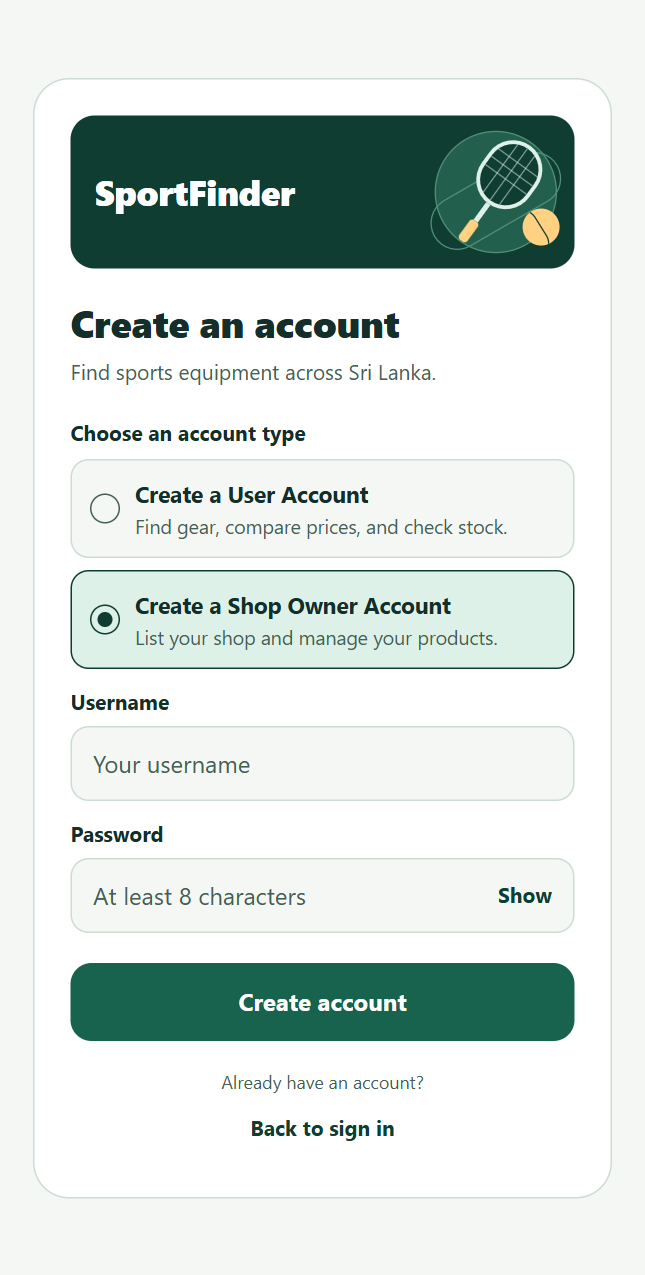
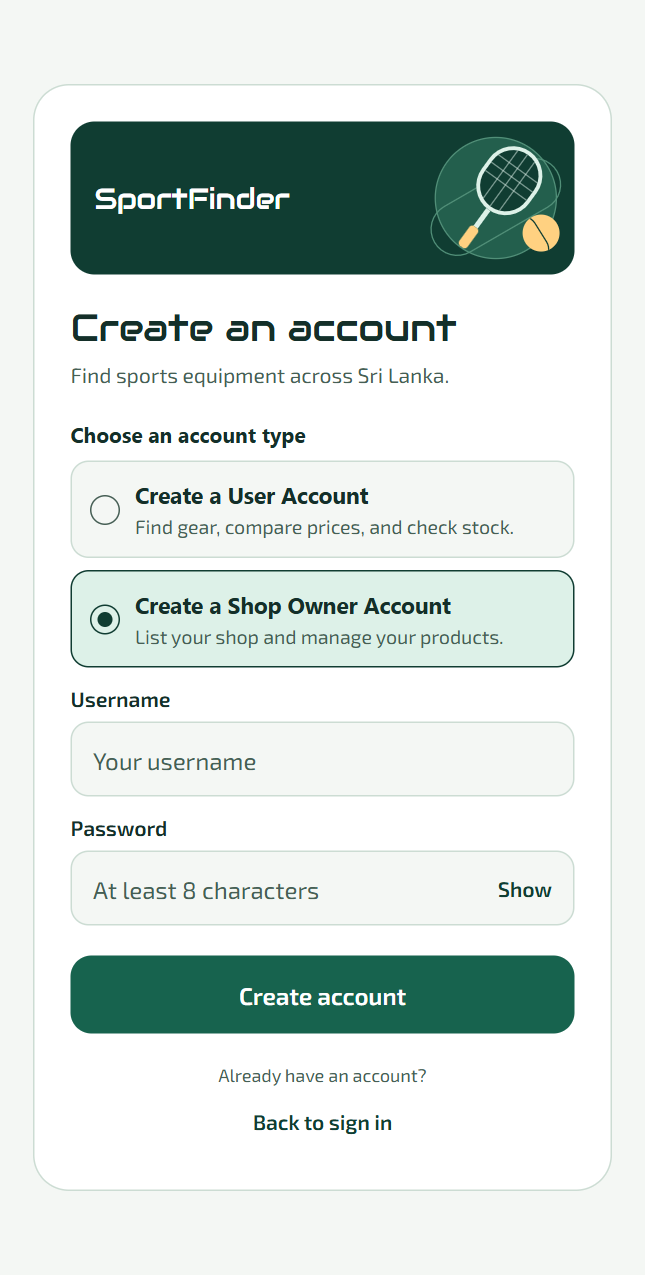
Update README and capture the application screens

diff --git a/README.md b/README.md
@@ -2,14 +2,14 @@
 
 SportFinder helps buyers find sports equipment in Sri Lanka by district, sport, brand, or shop. Buyers can check prices and availability before visiting a shop, while shop owners can maintain their listings on the same installation. The app uses a local SQLite database so searching, signing in, and managing inventory work without internet access in an installed release.
 
-This is the original interface on `main`. The [Sports UI edition](https://github.com/thisuri-a11y/SportsFinder_Mobile/tree/feature/sports-ui) adds a branded header, icon tabs, and an Account screen.
+This is the **Sports UI** edition on `feature/sports-ui`. It adds a branded header, icon tabs, and an Account screen with offline password changes. The previous interface is available on [main](https://github.com/thisuri-a11y/SportsFinder_Mobile/tree/main).
 
 ## Key features
 
 - **Find gear:** Search by product, brand, sport, or shop and filter by district. The catalogue can show in-stock items only.
 - **Shop directory:** View each shop's address, phone number, and equipment. On a supported phone, the call button opens the dialer.
 - **Inventory management:** Add, edit, and delete shops and equipment. Listings show prices in Sri Lankan rupees (LKR) and stock availability. Saved changes appear in the local catalogue.
-- **Local accounts:** Buyers and shop owners can register in the app. Admins use the same sign-in form with an existing account.
+- **Local accounts:** Buyers and shop owners can register in the app. Admins use the same sign-in form with an existing account. Open **Account** to see your role, change your password, or sign out. Shop owners and admins can also open **Manage** from Account.
 
 | Role | Access |
 | --- | --- |
@@ -33,6 +33,14 @@ Captured from the running web app at a phone-sized viewport using demo data.
 | --- | --- |
 | <img src="docs/screenshots/sportfinder-shop-owner.png" alt="Shop owner manages their own shop and equipment" width="260"> | <img src="docs/screenshots/sportfinder-admin.png" alt="Admin manages listings across multiple shops" width="260"> |
 
+| Shop directory | Shop details |
+| --- | --- |
+| <img src="docs/screenshots/sportfinder-shops.png" alt="Shop directory with district and address search" width="260"> | <img src="docs/screenshots/sportfinder-shop-details.png" alt="Shop details with address, phone number, and equipment" width="260"> |
+
+| Table Tennis catalogue | Account settings |
+| --- | --- |
+| <img src="docs/screenshots/sportfinder-catalogue.png" alt="Catalogue filtered to Table Tennis with price and availability" width="260"> | <img src="docs/screenshots/sportfinder-account.png" alt="Account settings with role, password change, and sign out" width="260"> |
+
 ## Technologies used
 
 | Technology | Purpose |
@@ -41,19 +49,20 @@ Captured from the running web app at a phone-sized viewport using demo data.
 | Expo SDK 58 and Expo Router | Android, iOS, and web builds and navigation |
 | SQLite via `expo-sqlite` | Local catalogue, accounts, sessions, and database migrations |
 | `expo-crypto` and `@noble/hashes` | Password salts and scrypt password hashing |
+| Exo 2 and Audiowide via `expo-font` | Offline fonts for everyday controls and selected display titles |
 | Node.js, npm, and ESLint | Local web preview, database tests, dependencies, and linting |
 
 ## Project structure
 
 ```text
 SportsFinder_Mobile/
-├── assets/                 App icons and splash screen artwork
+├── assets/                 App icons, splash screen artwork, and offline fonts
 ├── docs/screenshots/       Screenshots used in this README
 ├── scripts/serve-web.cjs   Local server for the exported web app
 ├── src/
 │   ├── app/                Expo Router screens and layouts
 │   │   ├── login.jsx       Sign-in and account registration
-│   │   └── (tabs)/         Home, gear search, shops, catalogue, and management
+│   │   └── (tabs)/         Home, gear search, shops, catalogue, account, and management
 │   ├── auth/               Accounts, password checks, and local sessions
 │   ├── components/         Shared UI and theme
 │   ├── db/                 SQLite setup, migrations, queries, and permissions
@@ -71,7 +80,7 @@ Use Node.js 24.3 or newer within the Node 24 release line, with npm. For the web
 1. Clone the repository and install the locked dependencies:
 
    ```sh
-   git clone https://github.com/thisuri-a11y/SportsFinder_Mobile.git
+   git clone --branch feature/sports-ui https://github.com/thisuri-a11y/SportsFinder_Mobile.git
    cd SportsFinder_Mobile
    npm ci
    ```
@@ -82,7 +91,7 @@ Use Node.js 24.3 or newer within the Node 24 release line, with npm. For the web
    npm run web:preview
    ```
 
-3. Open `http://localhost:8083` and sign in with a demo account, or choose **Create an account** and select **Create a User Account** or **Create a Shop Owner Account**. Use one preview tab at a time so SQLite can open its database.
+3. Open `http://localhost:8083` and sign in with a demo account, or choose **Create an account** and select **Create a User Account** or **Create a Shop Owner Account**. The preview opens its SQLite database in one tab at a time.
 
 ### Demo accounts
 
@@ -104,6 +113,10 @@ npx expo run:ios --configuration Release --no-bundler
 ```
 
 Run `npm run lint` and `npm test` to check the source and exercise SQLite migrations, role permissions, ownership, catalogue filtering, and persistence.
+
+## Browser storage recovery
+
+If another SportFinder tab is using the database, close that tab and select **Retry**. If startup still fails, select **Reload page** to restart SQLite. Keep the same browser profile and preview address to access your saved accounts and listings.
 
 ## Offline storage and upgrades
 
